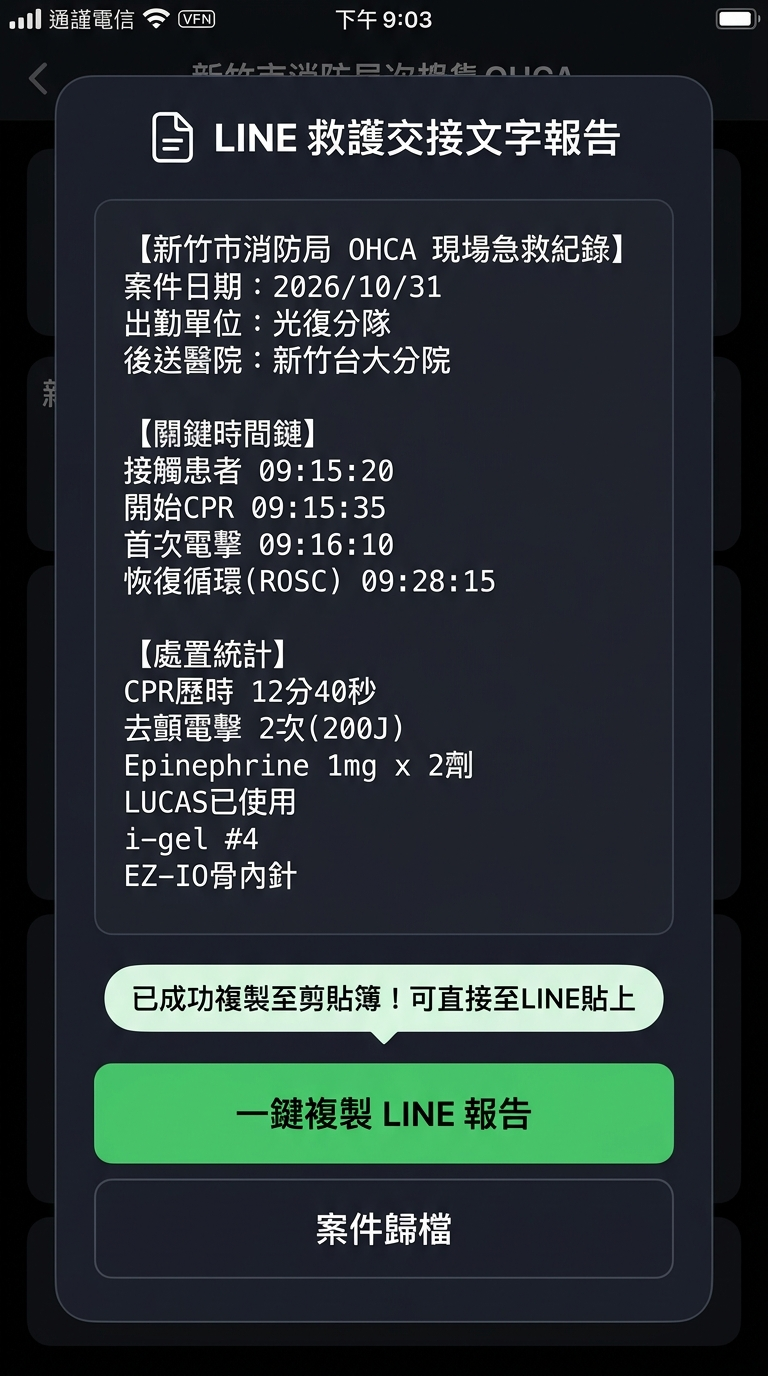
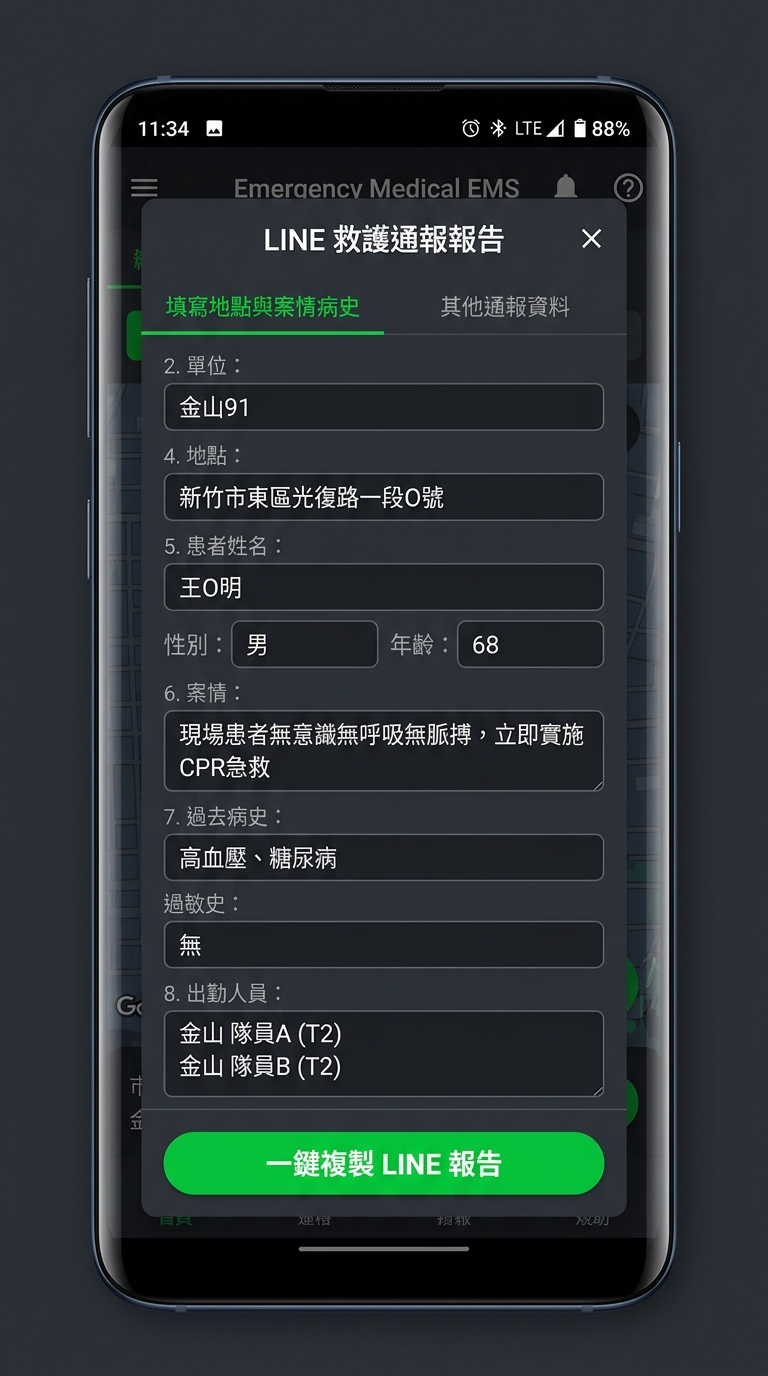
docs: de-identify personnel and patient data in README and update LINE modal screenshot

diff --git a/test/line_report_formatter_test.dart b/test/line_report_formatter_test.dart
@@ -11,15 +11,15 @@ void main() {
         id: 'case-test-1',
         startTime: now,
         squadName: '金山91',
-        location: '新竹市東區慈雲路O號',
-        patientName: '馬O倫',
+        location: '新竹市東區光復路一段O號',
+        patientName: '王O明',
         patientGender: '男',
-        patientAge: '17',
+        patientAge: '68',
         caseStory: '現場患者無意識、無呼吸、無脈搏，立即實施急救處置。',
-        medicalHistory: '精神疾病',
+        medicalHistory: '高血壓、心臟病',
         allergyHistory: '無',
-        emtNames: '金山 李心廷（T2)\n金山 張涵淇（T2)\n金山志工 湯宗達（T1)',
-        hospitalName: '國軍新竹醫院',
+        emtNames: '金山 隊員A（T2)\n金山 隊員B（T2)\n金山 志工C（T1)',
+        hospitalName: '新竹台大分院',
         patientContactTime: now,
         cprStartTime: now.add(const Duration(seconds: 15)),
         firstShockTime: now.add(const Duration(minutes: 1)),
@@ -57,13 +57,13 @@ void main() {
       expect(report, contains('1.出勤時間：9月3日20時51分'));
       expect(report, contains('2.單位：金山91'));
       expect(report, contains('3.救護類別：OHCA-救護'));
-      expect(report, contains('4.地點：新竹市東區慈雲路O號'));
-      expect(report, contains('5.患者：馬O倫，男性，17歲'));
+      expect(report, contains('4.地點：新竹市東區光復路一段O號'));
+      expect(report, contains('5.患者：王O明，男性，68歲'));
       expect(report, contains('6.案情：'));
-      expect(report, contains('7.過去病史：精神疾病。'));
+      expect(report, contains('7.過去病史：高血壓、心臟病。'));
       expect(report, contains('  過敏史：無。'));
       expect(report, contains('8.出勤人員：'));
-      expect(report, contains('金山 李心廷（T2)'));
+      expect(report, contains('金山 隊員A（T2)'));
       expect(report, contains('LUCAS 機械按壓：已使用'));
       expect(report, contains('SGA (i-gel) #4'));
       expect(report, contains('EZ-IO 骨內針'));

diff --git a/README.md b/README.md
@@ -46,10 +46,10 @@
 1.出勤時間：9月3日20時51分
 2.單位：金山91
 3.救護類別：OHCA-救護
-4.地點：新竹市東區慈雲路O號
-5.患者：馬O倫，男性，17歲
+4.地點：新竹市東區光復路一段O號
+5.患者：王O明，男性，68歲
 6.案情：
-現場患者無意識、無呼吸、無脈搏，立即實施 CPR 及各項急救處置。
+現場家屬表示患者突倒地無意識無反應，91人員到達評估無呼吸無脈搏，立即實施 CPR 及各項急救處置。
 
 【⏱ 現場急救處置與時間鏈】
 - 接觸患者：20:51:15
@@ -67,19 +67,17 @@
 - 呼吸道處置：SGA (i-gel) #4
 - 血管通路：EZ-IO 骨內針 (右側近端脛骨)
 - ETCO2 最新數值：38 mmHg
-金山91人員持續急救後送往國軍新竹醫院急診室交接。
+金山91人員持續急救後送往新竹台大分院急診室交接。
 
-7.過去病史：精神疾病。
+7.過去病史：高血壓、心臟病。
   過敏史：無。
 8.出勤人員：
-金山 李心廷（T2)
-金山 張涵淇（T2)
-金山志工 湯宗達（T1)
+金山 隊員A（T2)
+金山 隊員B（T2)
+金山 志工C（T1)
 
-TP干子涵(輪休)
-TP羅宜真(輪休)
-TP鄭華蓉(輪休)
-TP黃耀樟(輪休）
+TP隊員D(輪休)
+TP隊員E(輪休)
 
 【📜 詳細處置事件歷程】
 1. [20:51:15] 接觸患者
